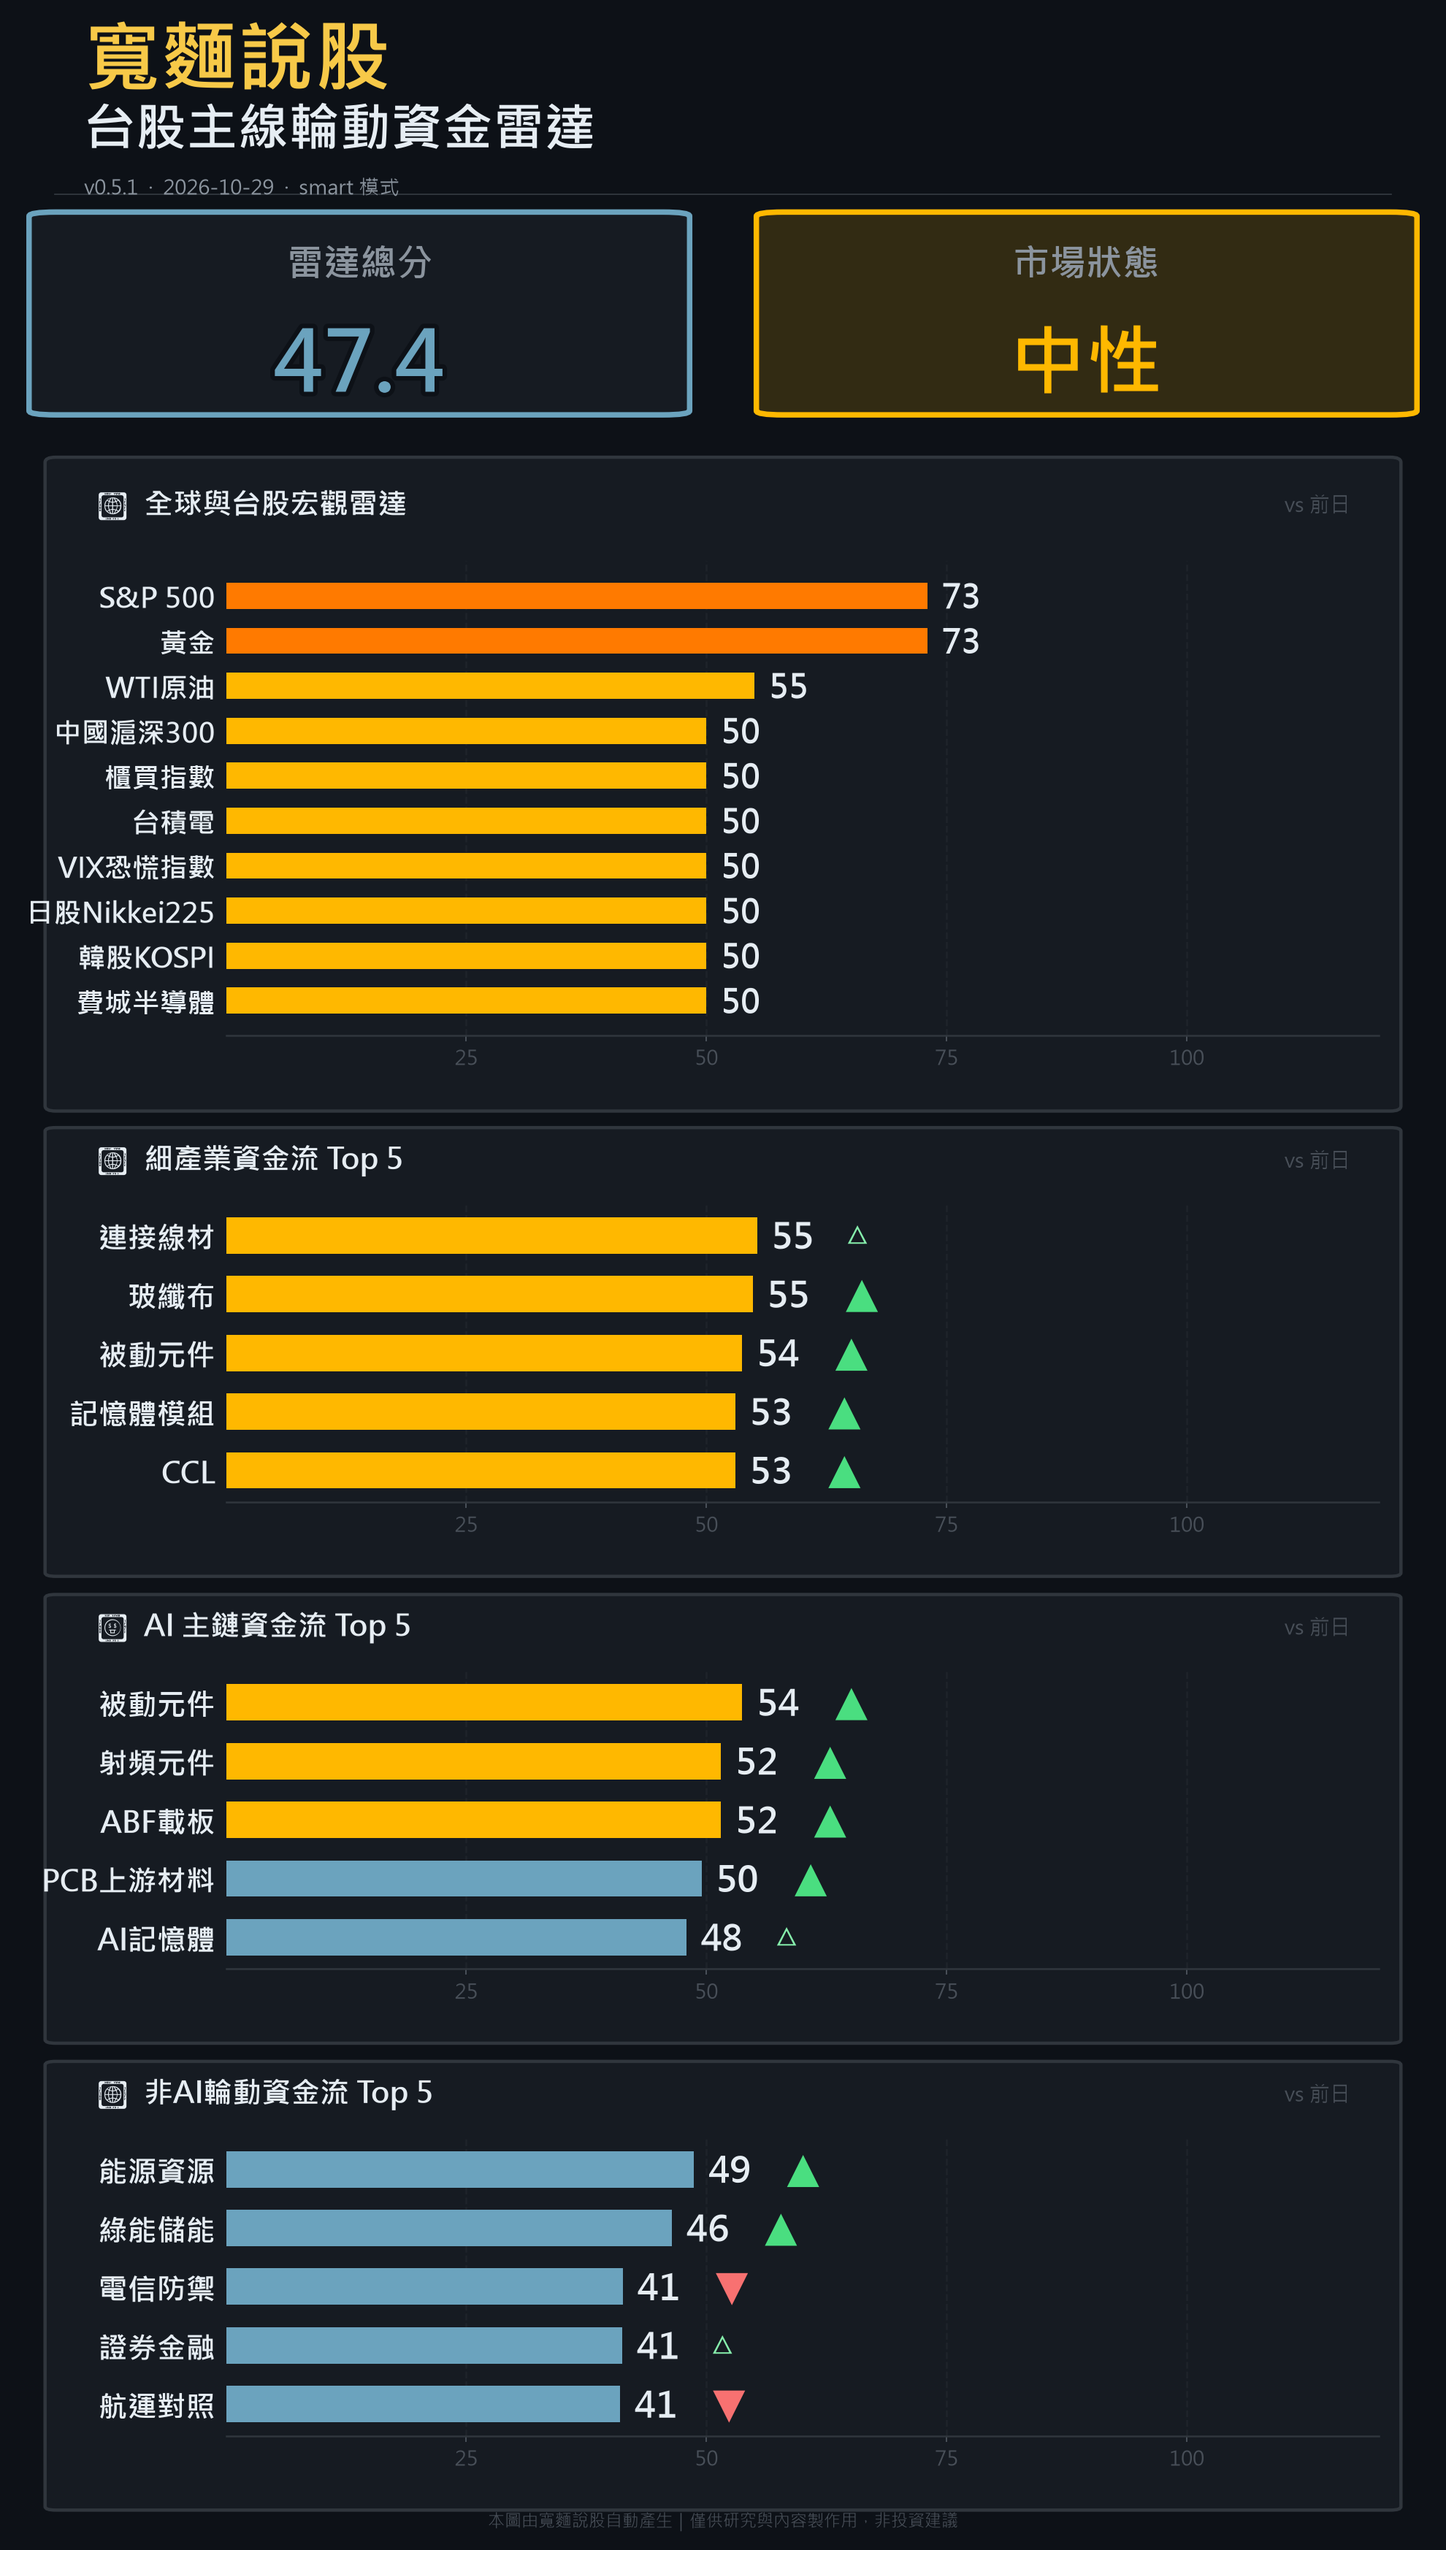
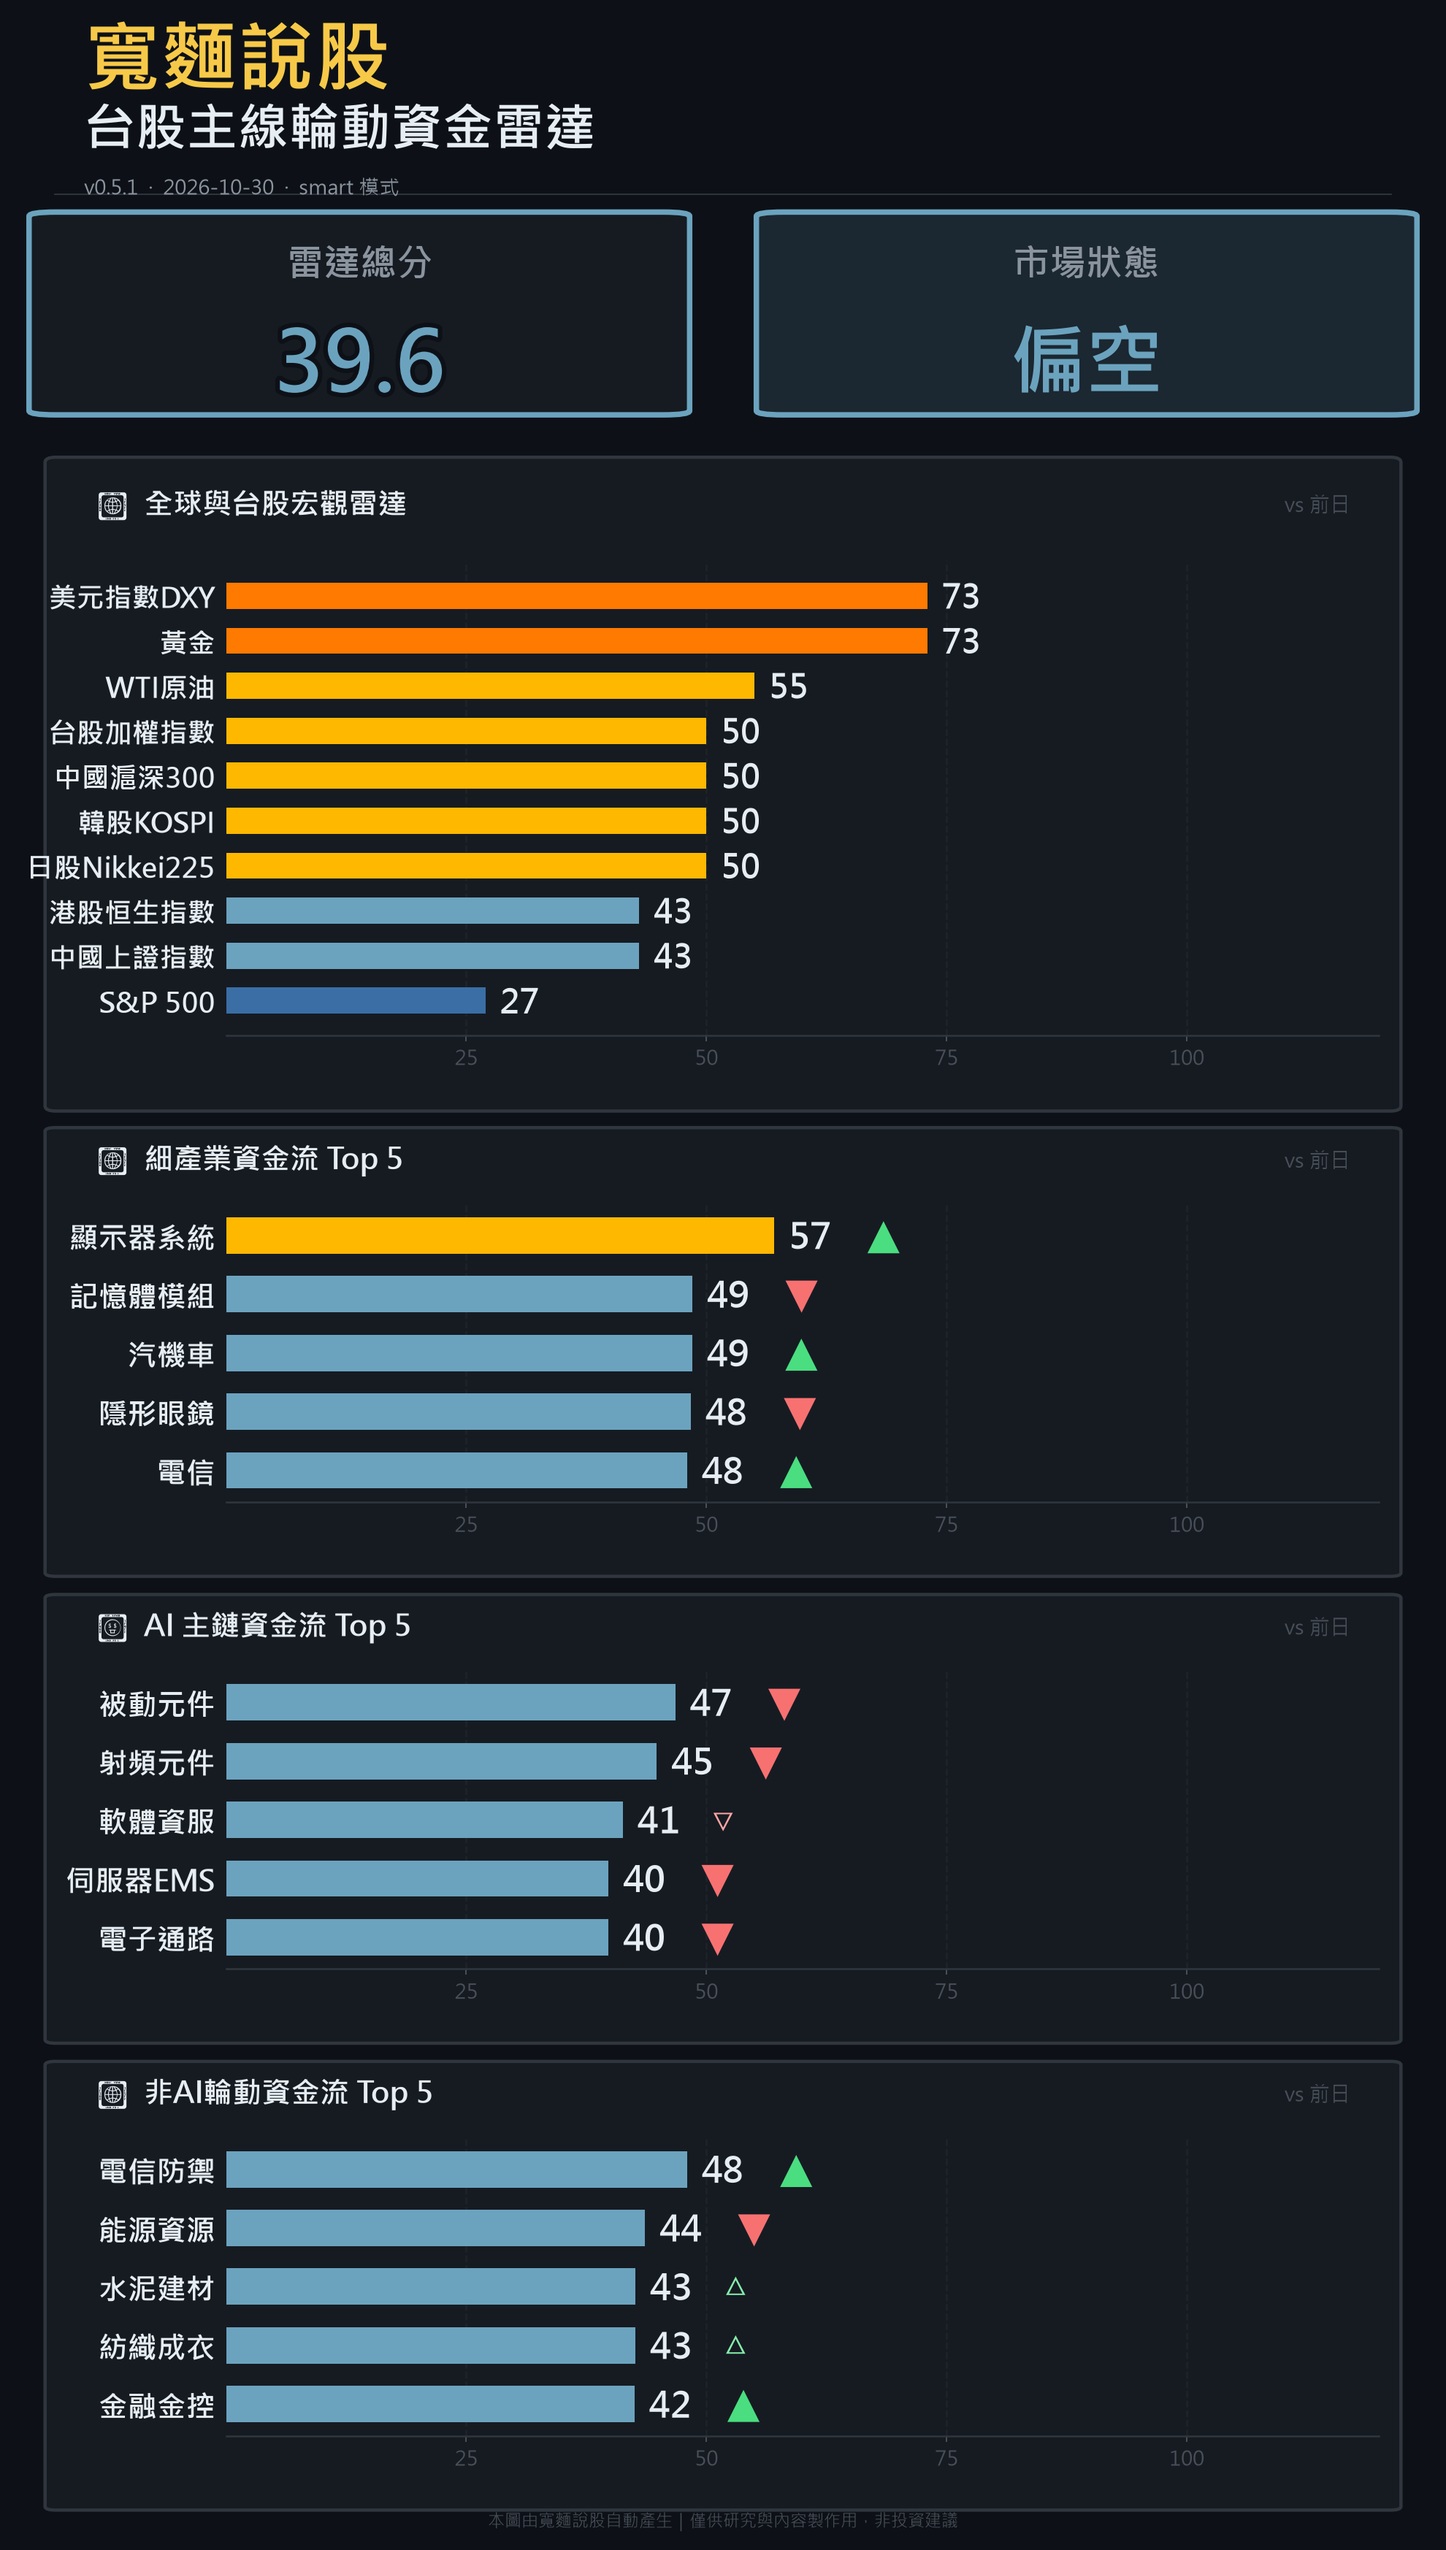
auto update radar chart 週五 2026/10/30  7:28:25.21

diff --git a/index.html b/index.html
@@ -122,7 +122,7 @@
     <section class="hero">
       <div class="brand">寬麵說股｜股海說書人</div>
       <h1>台股主線輪動資金雷達</h1>
-      <div class="updated">最後更新：2026-10-29 07:28:08</div>
+      <div class="updated">最後更新：2026-10-30 07:28:25</div>
       <div class="notice">
         每日追蹤 AI 主鏈、非AI輪動、宏觀風險與族群資金流。<br>
         本圖卡僅供研究與內容製作用，非投資建議。
@@ -130,11 +130,11 @@
     </section>
 
     <section class="dashboard-wrap">
-      <img class="dashboard" src="dashboard.png?v=20261029" alt="寬麵說股 台股主線輪動資金雷達">
+      <img class="dashboard" src="dashboard.png?v=20261030" alt="寬麵說股 台股主線輪動資金雷達">
     </section>
 
     <div class="actions">
-      <a class="btn" href="dashboard.png?v=20261029" target="_blank">開啟原圖</a>
+      <a class="btn" href="dashboard.png?v=20261030" target="_blank">開啟原圖</a>
     </div>
 
     <div class="footer">
